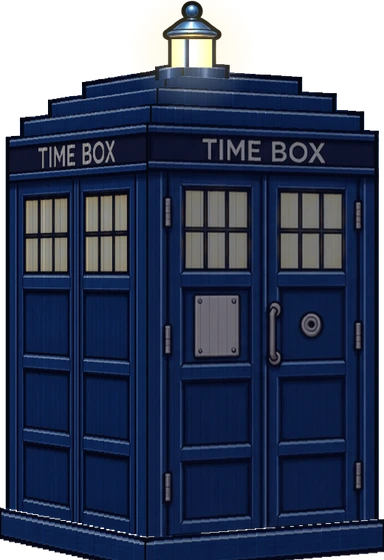
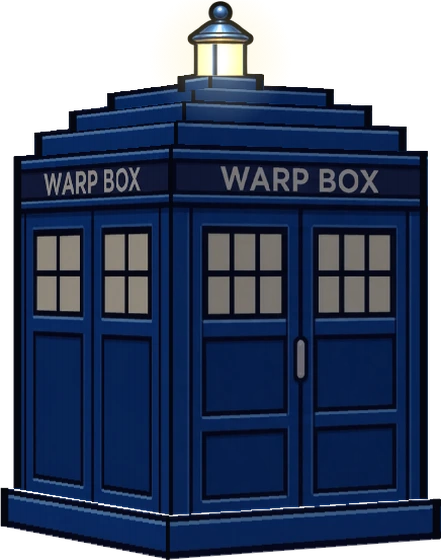
Jummah Dash: Warp Box no auto-warp (hits smash it), lasers harmless, new title card
Claude-Session: https://claude.ai/code/session_01YJ1z4udzgwtjsqdwzKAzGp

diff --git a/jummahdash/demo/game.js b/jummahdash/demo/game.js
@@ -877,6 +877,9 @@ const BOX_LIFE = 22;   // seconds the box lasts (owner: it runs out)
 const BXD = () => !!(BOXR && !veh && BOXR.t >= BOX_P * 3);   // inside the warp box (stuck on)
 const BOX_SOLID = () => BOXR && BOXR.t >= BOX_P * 3.7;
 const WARP_CD = 2.4, WO = .24, WG = .42, WI = .3;   // warp: fade out, gone (the street rushes past), fade back in further along
+function boxBreak() { const x = hero.x, y = hero.y; BOXR = null; inv = Math.max(inv, 1.8); shake = Math.max(shake, .35); flashT = .14; flashCol = '170,200,255'; SFX.boom && SFX.boom(); tone(240, .3, 'square', .06, .4, MIX && MIX.fx);
+  for (let i = 0; i < 30; i++) sparks.push({ x: x + (Math.random() - .5) * 50, y: y - Math.random() * HH * 1.5, vx: (Math.random() - .5) * 420, vy: -Math.random() * 360, l: .8 + Math.random() * .4, c: ['#1c3f8a', '#2a56b0', '#0d1b3d', '#fff3b0'][i % 4] });
+  pops.push({ x: x + 20, y: y - HH * 2, txt: 'BOX SMASHED!', col: '#9fc4ff', t: 0 }); }
 function boxWarp(auto) { if (!BOX_SOLID() || BOXR.w || (!auto && (BOXR.cd || 0) > 0) || state !== 'play' || hero.dead) return false;
   BOXR.w = { t: 0, n: 0, auto: !!auto };
   if (hero.y > FLOOR - 80) npcs.filter(p => !p.esc && !(p.fall > 0) && Math.abs(p.x - hero.x) < 70).slice(0, 2).forEach(p => { p.wp = { dx: p.x - hero.x }; });   // owner 23 Nov: people standing too close get taken along BOXR.cd = WARP_CD; RUN.warps = (RUN.warps || 0) + 1; tone(300, .35, 'sine', .06, .35, MIX && MIX.fx); tone(900, .3, 'sine', .03, .3, MIX && MIX.fx);
@@ -910,7 +913,7 @@ function die(why) {
   if (boost && !boost.out) return;
   if (veh && veh.k === 'mech' && veh.su < 1.05) return;   // can't be hit while the suit is building round him
   if (hero.dashT > 0 && !veh) { hero.threaded = 1; return; }   // a steam dash goes straight through
-  if (BOX_SOLID() && !veh) { if (why === 'laser') return; if (BOXR.w) return; if ((why === 'zap' || why === 'rocket') && boxWarp(true)) return; }
+  if (BOX_SOLID() && !veh) { if (why === 'laser') return; if (BOXR.w) return; boxBreak(); return; }   // owner 23 Nov: no automatic warping - hit a rocket or zapper and the box is smashed (he carries on with the cooker)
   if (hero.dead || inv > 0) return; if (window.__god) { window.__hits = (window.__hits || 0) + 1; window.__hitW = why; return; }
   if (veh && veh.k === 'tuktuk' && veh.nb > .4) { inv = .35; shake = .2; flashT = .08; flashCol = '255,220,120'; SFX.boom(); pops.push({ x: hero.x + 20, y: hero.y - 90, txt: 'SMASH!', col: '#ffd21f', t: 0 }); for (let i = 0; i < 18; i++) sparks.push({ x: hero.x + 30, y: hero.y - 30, vx: Math.random() * 260, vy: (Math.random() - .5) * 260, l: .5, c: ['#ffd75a', '#ffffff', '#ff9a2a'][i % 3] }); return; }
   if (veh && veh.k === 'logman' && veh.morph >= 1 && veh.swT >= 0 && veh.swT < .4 && (veh.batHP || 0) > 0 && (why === 'laser' || why === 'rocket' || why === 'zap')) return;   // mid-swing: the bat deals with it
@@ -1443,7 +1446,7 @@ function drawBoost() {
 /* owner 23 Nov, from his Jetpack Joyride 2 recording: grab the token -> white flash -> the game freezes under a big title card
    (teal energy band, the ride's picture, its name, an arrow streak; ~1.6 s) -> the band wipes off -> the ride's parts fly in
    from off screen with white streaks and lock onto him one by one -> a final white flash and off he goes. */
-let REVEAL = null; const CARD = {}; ['mech', 'carpet', 'sandals', 'kabootar', 'tuktuk', 'logman', 'box'].forEach(k => { CARD[k] = img('art/card/' + k + '.webp?v=' + (k === 'logman' ? 2 : 1)); });
+let REVEAL = null; const CARD = {}; ['mech', 'carpet', 'sandals', 'kabootar', 'tuktuk', 'logman', 'box'].forEach(k => { CARD[k] = img('art/card/' + k + '.webp?v=' + (k === 'logman' ? 2 : k === 'box' ? 3 : 1)); });
 function quickRide(k) {   // owner 23 Nov: repeat pickups skip the title card: a flash, a quick snap-together and straight back into play
   flashT = .18; flashCol = '255,255,255'; inv = Math.max(inv, 1.2); tone(880, .06, 'square', .05); setTimeout(() => tone(1320, .1, 'square', .05), 60);
   startVehicle(k, true); if (!veh) return; if (k === 'mech') veh.su = Math.max(veh.su || 0, .72); else if (k === 'logman') veh.morph = .2; else { veh.asm = .5; veh.fast = 1; } POL.fx.push({ k: 'ring', x: hero.x, y: hero.y - 30, t: 0, l: .4, col: '255,255,255' }); }

diff --git a/jummahdash/demo/sw.js b/jummahdash/demo/sw.js
@@ -1,6 +1,6 @@
 /* Jummah Dash: keeps the whole game on the phone. First visit downloads it once;
    after that it opens from the phone, and an update only downloads the files that changed. */
-const BUILD = '20261123211113';
+const BUILD = '20261123211409';
 const FILES = {
 "jd-extra.js": "cfaae1b40a",
 "hd/landmarks_hd.js": "7d60d75c5a",
@@ -10,7 +10,7 @@ const FILES = {
 "hd/box.js": "399029c3d5",
 "hd/tins.js": "aa419cd2f9",
 "hd/foodbank.png": "8f4400d5e6",
-"game.js": "27b0d3d0c5",
+"game.js": "413104777d",
 "landmarks.js": "4649570284",
 "vehicles.js": "32fdac20ce",
 "manifest.webmanifest": "f337af2b13",
@@ -174,7 +174,7 @@ const FILES = {
 "art/tin/lots.webp": "9ca790f26c",
 "art/tin/sewing.webp": "6f83d240f9",
 "art/tin/tin.webp": "551d646453",
-"art/card/box.webp": "b5e6c24513",
+"art/card/box.webp": "6b2075b7e6",
 "art/card/carpet.webp": "10915d8166",
 "art/card/kabootar.webp": "a2edd1a2ed",
 "art/card/logman.webp": "25734de29c",

diff --git a/jummahdash/demo/game.html b/jummahdash/demo/game.html
@@ -607,7 +607,7 @@ var t=setInterval(function(){var lt=document.getElementById('loadTxt');if(!q&&lt
 <script src="hd/mech.js?h=e8ac3de068"></script>
 <script src="hd/logman.js?h=3eebaa7c57"></script>
 <script src="hd/box.js?h=399029c3d5"></script>
-<script src="game.js?h=27b0d3d0c5"></script>
+<script src="game.js?h=413104777d"></script>
 <script src="hd/tins.js?h=aa419cd2f9"></script>
 <script src="jd-extra.js?h=cfaae1b40a"></script>
 <script src="/flappy/carreq.js?v=1"></script>

diff --git a/CLAUDE.md b/CLAUDE.md
@@ -158,7 +158,7 @@ Owner: Summar (SMR Graphics / SMR Digital / SMR Plates, Luton). He edits the sit
 - 23 Nov (live): Hoover Mech ride (hd/mech.js drawMech, owner's own exosuit design, no face but one red laser eye + mouth slit, no white anywhere; MCH 1.08 in game.js): Transformer-style suit-up in slow motion (MECH_LOCKS clank + sparks), stomping high-knee walk that never slides (MECH_GAIT), both arms jointed (ball shoulder, elbow piston, cuff), backpack hose plugged into the near forearm; hold = foot thrusters fly like the jetpack; heavy landings knock people over; hose = coin magnet. SHIELD button bottom-left (#bShield, hold to keep it up, battery 2.5 s, recharges 3.5 s from empty as soon as you let go): red holographic hex shield, rockets bounce off (DEFLECTED!), lasers blocked; without it lasers/rockets wreck the mech, zappers only crackle. In the mech only rockets spawn (singles/pairs/volleys aimed at the suit). Skill systems: jetpack overheat (gauge beside him, 2.8 s solid hold = OVERHEAT + 1.1 s cut-out), steam dash (DASH button bottom-left #bDash or swipe right/D key; 2.2 s recharge, passes through hazards = THREADED! +£5), near-miss boost (CLOSE! xN, coins worth xN up to x5, 3 s window, speed burst). Ride bag: every ride twice, Flappy Kabootar once (rarer), never the same twice running; first gift box at 20 s is random too. Convoy: first within the first 90 s, then every 90-150 s. Outfits redrawn in the v3 style (hero_v3.js outfit param: eid cream + gold, luton orange/navy, puffer navy quilted, moroccan striped djellaba with hood; build_v3.py renders all five sheets; deploy.py hashes each). Demo modes: ?mechdemo=1 (every box is the mech), ?ridedemo=1 (every ride except Flappy in turn, boxes every ~1000 units). Claude artifact demo: 601d658b-cde5-4fb0-b20c-aee61a7de9b7 ("Jummah Dash – power-ups demo").
 - 23 Nov later (live): Billi the Cat gadget (id 'cat', £3,000; CAT in game.js, works like Flash the dog in Jetpack Joyride, drawn in the hero's style at his scale FS): orange tabby trots along the pavement with him (IK legs, diagonal pairs, planted paws slide with the street), jumps for low coins, trips about 1 in 4 people it runs into, rides along on every power-up (tuk-tuk, carpet, Flappy pigeon, mech shoulder, uncle's Corolla) pulling coins in from close by; near ear in front of the head, far ear smaller behind. Puffer = waist-length navy jacket over the thobe; Luton outfit = full kit (orange shirt, navy shorts, navy leggings, orange boots). Yaris wheels .87 (WSZ). DASH button back to the old style and spot, 74px (63 on short screens). Shop outfit icons skip a picture that hasn't loaded (a 0-byte hero3_puffer.webp had stopped the outfits list after Classic; rebuilt). Test hook window.__spawn(key, x).
 - 23 Nov (afternoon, live 23 Nov ~15:00 after a full test pass): power-ups now work like the owner's JJ2 recording: the ride token spins like a coin with a holographic rainbow frame; grabbing it = white flash, the game freezes under a title card (startReveal/drawReveal: teal energy band with flickering jagged edges, the ride's picture from art/card/<k>.webp (owner's ChatGPT art: mech, carpet, sandals, kabootar; tuk-tuk uses its icon), POWER-UP! + name, arrow streak; 1.75 s), then the ride's parts fly in from off screen with white streaks and lock on (veh.asm, 3 pieces, clank + sparks, final white flash; the mech keeps its own suit-up and skips its old banner). Hoover Mech jumps like Big Stomper (timed from the recording): tap = crouch then blast-off (vy -1500, SFX.stompJump: filtered-noise roar + low boom), up in ~0.23 s, ~0.25 s hang, fast drop; hold in the air = thrusters hover/climb; landing = squash, dust ring, thudBig + clank, shake, people knocked over. Ammi's Tin (end-of-run biscuit tin game, hd/tins.js + art/tin/*.webp from the owner's ChatGPT sprites: open tin, lid, lid flying, contents sewing/few/lots/eidi/keys/jackpot/gift; contentsS draws them smaller and lower, clipped to the opening with only a low mound above the back rim and the inner wall shading over the back, so they sit down in the tin): tins float in runs (spinning tilt, gold ring, sparkles, shine), fly to a tin counter under the money (#tinHud, art/tin/closed.webp); each tin = one round: 3 tins (R × .82, owner 23 Nov), the jackpot tin peeks, SHUFFLE! (gold pill button with a shuffle icon, pulse + shine sweep; ▶ icon for OPEN NEXT TIN / CARRY ON via data-k), quick shuffle (5 swaps), pick one, camera moves in (every phase sped up by TSPD in tins.js, owner 23 Nov: shuffle, see the prize, see what you missed, next), money wins = ka-ching + coins pouring out + confetti, lid prises off, contents pop, the other two open. Prizes: jackpot tin £300 / £150 / head start 1000m / 2 second chances / a free jugaad; others mostly the sewing kit, sometimes £25/£50, a second chance or head start 500m. ?tindemo=1 = tins often; window.__tins(n). Shop tab GADGETS renamed JUGAAD; new jugaad HOT JALEBI (£1,800: some coin trails become jalebis worth £3; owner's jalebi art art/jalebi.webp). Rockets silver with a blue nose/fins and one blue + one white stripe. Then (same afternoon): DASH button left of the SHIELD (#bShield moved to left +116); on the carpet he stays his running size (HS); power-up tokens stay fixed to the street like JJ's: a spinning hologram tile (see-through SMR Digital blue→violet→pink face with moving rainbow bands and scan lines, polished metal rim whose thickness is the rim repeated behind it as it turns, glint running round the rim); tuk-tuk title card = owner's render art/card/tuktuk.webp; carpet token icon = owner's carpet render art/icon_carpet.webp (rideIcon); Billi is built into the rides: on a power-up he leaps onto it in an arc (CAT.jmp, .5 s), lands with a squash, then the ride draws him itself in a lying pose (CAT.lie(g, rideScale, {hang|wind}), CAT.built()): Hoover Mech = lying on the shoulder pad, paws draped over the front, tail down the back (drawMech o.cat hook after the pad); carpet = lying on the cloth riding its ripple (carpetWave()); tuk-tuk = flat on the roof, tail streaming; head start / pigeon = the same lying pose at the ride spot; only Ammi's tin floats, in a wave you chase, with a soft gold glow hugging it, a shine that sweeps over the round tin only (masked to the tin's pixels on a small canvas TINSH), and four motion lines trailing to the left that stretch and shrink on their own beats and bend along the path the tin just floated through, with little speed dashes drifting off the ends (no ring; ?tindemo tins every ~900-1400 units); Billi walks in at the start (only sits once you're down); Billi runs at a gallop (knees on the front, hocks behind on the back legs, faster with the game); DASH, SHIELD and HORN buttons all the same 74px (63 on short screens) in exactly the same spot, left calc(var(--sl) * .6 + 6px), 37px up; distance/money HUD left calc(var(--sl) * .6 + 10px); Flappy Kabootar ride only in every other ride bag (jd_fkbag) and its coins are £10 each; carpet flies in under him in one piece, sandals rise to his feet; gravity sandals = chunky brown sandals with glowing green straps and a thick neon green sole, drawn into small sheets art/hero3s_<outfit>.webp (run0-5 + glide0; heroV3.sandal, `python3 hd/build_v3.py sandals`). Demo artifact has Billi the cat equipped. Tuk-tuk HORN BLAST (owner 23 Nov): gold HORN button (#bHorn; H/D keys) while in the tuk-tuk, 1.8 s recharge ring: SFX.horn = the owner's own horn recording art/snd/horn.mp3 (his two honks at 4.70-6.12 s of his clip; the loud bit at 7.5 s is a TikTok sound, never use it, highpass + denoise, 12 ms fade in / 0.58 s fade out, loudness-normalised; synth air horn only until it loads) (nothing mixed in); brass bulb horn on the tuk-tuk's front pillar squeezes, the tuk-tuk rocks back; the shockwave is see-through sound waves that bend the picture behind them (drawHorns after the sparks: copies the canvas into WARP, then warpRing() magnifies the strip under each ring sector by sector with its own wobble, glassBand() adds a faint glassy crest; one big wave + two ripples rolling right, small waves pumping out of the horn; no drawn lines) rolls right at 1100 px/s across the screen: zappers shatter (ZAPPED +£2), flying rockets are blown back (BLOWN AWAY +£2), rockets still on their warning are cancelled when it reaches the edge (ROCKET CANCELLED! +£2), lasers shut off (LASER OFF +£2), people in its path are knocked flat (+£1 each). Tip 'HIT HORN TO BLAST HAZARDS!' the first time. Tuk-tuk double jump (owner 23 Nov): a second tap in the air (veh.dj, reset on landing) boosts it again with a thruster burst (veh.dbl), enough to reach the top of the screen (ceiling clamp CEIL + 84); hold still slows the fall. Tuk-tuk is laser-proof (tukLaser: sparks crackle over it, 'LASER-PROOF!' once per laser). Test hooks __jd.horn(), __jd.zap(x,y,len,ang). 23 Nov evening: shop tab JUGAAD renamed back to GADGETS everywhere (no 'jugaad' wording anywhere; tin prize = FREE GADGET!); the Charity Tin gadget is now COIN MAGNET (id still 'tin' so saves keep it, drawn magnet icon); Luton Central Mosque is the default masjid with no first-time picker (change it in Settings); zapper ends = the owner's silver balls with the hole the beam comes out of (art/zapball.webp cut from his sheet, zapBall()/ballCrackle()); the horn pulse makes things short out and break instead of vanishing (wrecks[] in game.js: zapper beams stutter then the balls drop, bounce and smoke; laser boxes flicker out and fall; rockets lose their flame, tumble down and pop on the road; 'SHORTED OUT +£2'); laser warning line has a dark backing, soft glow and thicker moving dashes so it shows on the busy street; horn recording played at full gain; DASH, SHIELD and HORN buttons 30% bigger (96px, 82px on short screens, bottom 22px), still all in the same spot.  Tuk-tuk redrawn (owner 23 Nov evening): glossy paint with a clear-coat band, panel seams, chrome bumper, grab rail, mudguard, plate, stitched canopy, real tyres with chrome rims that blur at speed; headlight = chrome bezel + glowing lens + soft layered cone with flicker and a light pool on the road; thrusters = metal nozzles that glow hot, layered roaring jets (white core, yellow, orange) with shock diamonds, ground glow and embers, bigger blast on the double jump, tiny blue pilot flame in the air (veh.heat). Convoy rarer: first at 2.5-5 min, then every 5-8 min. DASH is hidden (and can't fire) under the power-up title card and in Flappy Kabootar mode.
-- 23 Nov evening (live): tuk-tuk horn fixed (traffic kit's SFX.horn was overwriting it; the tuk-tuk plays SFX.tukHorn = the owner's two honks at 4.7-6.1 s of his clip); Billi back on the carpet/pigeon (code had been swallowed by a comment); zappers = chrome balls drawn in code (zapBallArt, lighting stays upright) with an "eye" (iris + white-hot pupil) facing the other ball, golden beam; tuk-tuk redrawn (glossy paint, chrome, real tyres, glowing nozzles with roaring jets, soft headlight); convoy rarer (first 2.5-5 min, then 5-8 min); POLISH block (POL in game.js): jetpack flame (P.jet), lean + landing squash (hero.sq), cooker rattle/red glow/valve spits, footstep dust, coin streak pitch + sparkles + "+N" + HUD bump + glints, rocket tracking line, chunkier rockets x1.35, laser whir + shake, near-miss slow-mo (SMT), hit-stop (HITT), soot/fizz, coins spill + death zoom, ride debris, mech cracks + joint steam, sandal flip ripple, carpet sparkles, pigeon feathers, pavement pigeons that scatter, speed lines, game-over count-up + NEW BEST + confetti, shop ka-ching + flying coins, mission star, button clicks, home tiles slide in + logo shine + hero bob, every tone pitch varies ±2%; background music removed (owner); plane redrawn (generic white/orange livery, no airline name, gear, lights, drifting exhaust) + plane roar (SFX.planeT) + train rumble/clacks/horn (SFX.trainT); cooker heat bar moved under the money (#heatBar: COOKER / TOO HOT! shaking / COOLING… with smoke puffs); results screen first with RUN AGAIN, tins + Eidi banked (jd_bankT/jd_bankE, open from results or home; banked Eidi "life" = a Second Chance item); first-ever run (no jd_played): tuk-tuk box low at ~8.5 s, then a vertical zapper + "HIT HORN TO BREAK IT!" with the HORN button pulsing; repeat ride pickups skip the title card (jd_seenRides, quickRide; kabootar keeps its own entry); set pieces after 220 m (14%): speed-camera gate with a coin line through the gap, spinning zapper ringed with coins, rocket run (fixY lanes) with coins in the middle lane; STYLE shop tab: Copper Cooker £300, Black Chrome Cooker £400 (art/cookmask.webp recolours only the cooker pixels, ckSheet), Green Steam £200, Pink Steam £250 (SHOP.ck / SHOP.st); Welcome to Luton = the real painted tarmac slope in a grass bank with perspective lettering (welcomeTex warped row by row). Lakri Man (owner's orange log character, name is a placeholder): rigged in hd/logman.js (drawLogman) from the owner's parts sheet cut into art/logman/*.webp (body, near/far upper arm, forearm, hand, thigh, shin, foot, 10 faces); joints have no outline seams (outline discs behind, fill discs over the seams); run cycle, air pose, windmill arms, faces change with what he's doing. New ride 'logman' in RIDES: Hulk-style mutation (drawLogVeh: he shakes, turns orange, stretches, the cooker drops off and bounces away (heroSplit via cookmask), burst of wood chips, Lakri Man grows out with an overshoot; SFX.mutate growl + wood creaks); tap = big leap, tap again in the air = flip leap, hold in the air = windmill arms slow the fall; zappers can't hurt wood ('WOOD DON'T CONDUCT!'), rockets and lasers splinter him; a bit taller than the hero (LMS .096). Title card art/card/logman.webp = the owner's bat-on-shoulder render (also the ride token icon); BAT button icon art/bat_icon.webp = his bat picture, tilted. Later 23 Nov: browner orange (art/logman/*.webp recoloured from art/logman_orig/, joint fills #d16c2a/#ad4f1b); jump, flip, then a double flip (veh.jn up to 3, 'TRIPLE!'); holds the owner's long bat (art/logman/n_bat.webp, hand + bat cut from his sheet, bat stretched 1.55x) in place of his near hand; BAT button (#bBat, same spot/size as Shield/Dash/Horn; B/S keys): wind-up, whip and follow-through (batAngle), the forward whip smashes zappers (SMASHED!), sends rockets back (HOME RUN!) and knocks out lasers at his height (BATTED!), short hit-stop; limits: bat snaps after 6 hits (BAT_HP), and he only lasts 24 s (LOG_LIFE): creaks and cracks for the last 5 s, then logRevert() splinters him back into the hero (not a death). Baseball (owner 23 Nov): BASE HIT! (zapper), HOME RUN! (rocket, ballpark organ 'charge!' SFX.charge, then homeRunLands(): coin shower / pigeons / car alarm / GRAND SLAM +£10), BATTED! (laser), STRIKE OUT! when he's hit; hit streak ×2..×5 on the payout (resets on a whiffed swing, 'STREAK OVER'); STYLE shop bats: Taped Bat £500 (10 hits), Aluminium Bat £800 (wider swing + TING), Golden Bat £1200 (coins on every hit, sometimes no damage) (SHOP.bat; art/logman/n_bat_tape|alu|gold.webp); Golden Lakri Man 1 in 200 (?goldlog=1 or admin start option): metallic gold parts from art/logman_gold/, glow + sparkle trail, golden bat, lasts twice as long. Admin mode (jd-extra.js START) has LAKRI MAN and GOLDEN LAKRI MAN; ride-box rotation includes him; admin unlocks the style items and bats. Death (owner 23 Nov night): no grey/soot or white shock tint; he goes limp in the fall0_ko pose with dizzy swirl eyes (hero_v3.js face 'ko', all outfit sheets rebuilt); his cooker breaks off (deadCookOff/drawDeadCook: heroSplit body drawn on him, the cooker flies up spinning, pours dark smoke (steam p.dark), bounces and smoulders, kept near him); Second Chance gives it back. Tuk-tuk assembly (owner 23 Nov night): no more picture strips; drawVehicle's tuk-tuk is split into its real parts with PT(i, fn) and TUK_PARTS (centre x/y, fly-in offset, spin): back wheel, cabin, body, canopy, windscreen, mirror, headlight, front wheel, thrusters, exhaust, horn; each flies in on its own path 0.07 apart, eases in with a small overshoot and a white trail, then clicks (own tone) with sparks and a cross glint (veh.glint). window.__aT freezes the assembly for screenshots; __jd.veh(k, true) starts a ride with the assembly. Fixes 23 Nov night: taps now jump (the jump code had only run during the mutation), jump / flip / double flip work; Lakri Man 40% bigger (LMS .1344); bat = the owner's own bat picture (light orange, knob in the fist, 330 px, ~1.4x longer; tape/alu/gold made from it, old ones in art/logman_orig/); mutation redone as one body (hunch, orange glow, three growth spurts, wood rising from the feet past a glowing seam, cooker breaks off his back and bounces away, head squashed into the log, roar); heroSplit grows the cooker mask by ~1.3 units all round (16 directions) so the cooker's dark outline leaves with it (a ghost outline used to stay on his back after it flew off), and turns the opaque cookmask's brightness into alpha (it used to count the whole hero as cooker, so the hero flew off); can't be hurt while transforming; generous bat timing (whip window .02-.36 s, bigger reach, hits during a swing go to the bat first, .2 s grace after a hit); time up or a hit = logExplode(): his body parts (window.LOGMAN_P) fly apart with a blast and the hero is underneath with his cooker. Somersault (owner 23 Nov night): real tucked front flip: st.tuck (0-1, in over the first 15%, out over the last 18%) bends thigh/shin/foot to knees-up heels-in and pulls the arms in (legA/armA in logman.js), the near leg is drawn in front of the log while tucked, the pivot moves up to the ball's centre, the spin eases in/out (smoothstep), flips last .56 s (triple .8 s); window.__fT freezes the flip progress, window.__noRot turns off the spin for checks. Warp Box (owner 23 Nov night, his own art; a spinning box only, no time travel): hd/box.js drawBox(g, x, groundY, h, angle) turns a real square box from his pictures (front face = his door side, the other three = his single side picture, roof steps/base cut from it, faces cropped inside the outline with one outline round the outside and thin corner lines, light from the upper left, slight perspective; lantern's glass redrawn with four posts sliding round so it turns too; art/box/*.webp, title card art/card/box.webp rendered from it). Power-up 'box' in RIDES (VEH_NAME BLUE BOX) but not a vehicle: startVehicle sets BOXR and he keeps flying with the cooker; it shimmers in and out round him 3 times (.4 s each) and sticks on the 4th, then spins round him. DASH button turns into WARP (blue; swipe right / D too): he and the box are sucked in (spin + shrink), the street rushes past (+1500 speed for ~.4 s) and they pop out further on ('WARPED!', 2.4 s recharge); touching a zapper or rocket warps him automatically; big lasers can't touch him; landing spot is cleared of zappers/rockets. Lasts 22 s (BOX_LIFE), flickers for the last 3 s, then 'BOX GONE!'. Renamed WARP BOX (owner): both sign pictures repainted to read WARP BOX (Poppins Medium over the blended panel), power-up name WARP BOX in VEH_NAME and admin START. Owner's simpler art (23 Nov 21:00, sheet with WARP BOX already on it): faces/roof steps/base from it (art/box/*.webp v=2, H 698, BW 415), old lantern kept (art/box/lantern.webp, posts still turn); old textures in art/box_old/; each face shaded in one pass (no strip seams). No reward just for pressing WARP (owner): no bonus, skipped coins aren't collected; coin magnet while in the box stays; pops 'WARPED!' / 'SLIPPED THROUGH!'. Passengers (owner): anyone on the pavement within 70 of him when he warps from low down (max 2) is sucked in with him (p.wp, drawn shrinking/fading with the warp), pops out with him ('BROUGHT A PASSENGER!') and walks on dizzy with stars circling (p.dizzy 2.6 s). Flying in the box (owner): no steam, no hiss, no flame/rattle and no heat build-up (BXD()), just a few soft silent motion lines under the box going up / above it coming down (drawBoxR). Tip 'TAP WARP TO SKIP AHEAD!' once per run (the DASH tip is skipped in the box). Shadows (owner 23 Nov): drawShadows() before the depth-sorted pavement list puts a soft ellipse on the pavement under everything in the air (rockets, zapper balls + beam, coins, ride tokens and tins, wreck pieces, Lakri Man's flying parts, the dead cooker, the warp box, mech, sandals on the floor side, the cat mid-jump); gshadow(x, y, w, k, always) shrinks and fades with height. Rides too (owner): mech, sandals, Lakri Man, magic carpet and uncle's Corolla get theirs from the pass (always on, sized to the ride; the old fixed ones were removed); tuk-tuk and Flappy pigeon keep their own height-scaled shadows. While in it the spawner only throws rocket volleys with coins, big laser sets and plain coin waves (owner: no zapper walls in the Warp Box); mix in the box: rocket volleys 40%, big lasers 18%, two or three single zappers 300 apart alternating high/low so he can fly round them 20%, coin waves 22%. After every warp he's safe for ~1.9 s (inv) because he can't see where he'll land. Preview page box_preview.html in the work folder. Handover doc: Jummah-Dash-handover.docx (sent in chat). Test hook window.__lm(key, x) puts a landmark on the street.
+- 23 Nov evening (live): tuk-tuk horn fixed (traffic kit's SFX.horn was overwriting it; the tuk-tuk plays SFX.tukHorn = the owner's two honks at 4.7-6.1 s of his clip); Billi back on the carpet/pigeon (code had been swallowed by a comment); zappers = chrome balls drawn in code (zapBallArt, lighting stays upright) with an "eye" (iris + white-hot pupil) facing the other ball, golden beam; tuk-tuk redrawn (glossy paint, chrome, real tyres, glowing nozzles with roaring jets, soft headlight); convoy rarer (first 2.5-5 min, then 5-8 min); POLISH block (POL in game.js): jetpack flame (P.jet), lean + landing squash (hero.sq), cooker rattle/red glow/valve spits, footstep dust, coin streak pitch + sparkles + "+N" + HUD bump + glints, rocket tracking line, chunkier rockets x1.35, laser whir + shake, near-miss slow-mo (SMT), hit-stop (HITT), soot/fizz, coins spill + death zoom, ride debris, mech cracks + joint steam, sandal flip ripple, carpet sparkles, pigeon feathers, pavement pigeons that scatter, speed lines, game-over count-up + NEW BEST + confetti, shop ka-ching + flying coins, mission star, button clicks, home tiles slide in + logo shine + hero bob, every tone pitch varies ±2%; background music removed (owner); plane redrawn (generic white/orange livery, no airline name, gear, lights, drifting exhaust) + plane roar (SFX.planeT) + train rumble/clacks/horn (SFX.trainT); cooker heat bar moved under the money (#heatBar: COOKER / TOO HOT! shaking / COOLING… with smoke puffs); results screen first with RUN AGAIN, tins + Eidi banked (jd_bankT/jd_bankE, open from results or home; banked Eidi "life" = a Second Chance item); first-ever run (no jd_played): tuk-tuk box low at ~8.5 s, then a vertical zapper + "HIT HORN TO BREAK IT!" with the HORN button pulsing; repeat ride pickups skip the title card (jd_seenRides, quickRide; kabootar keeps its own entry); set pieces after 220 m (14%): speed-camera gate with a coin line through the gap, spinning zapper ringed with coins, rocket run (fixY lanes) with coins in the middle lane; STYLE shop tab: Copper Cooker £300, Black Chrome Cooker £400 (art/cookmask.webp recolours only the cooker pixels, ckSheet), Green Steam £200, Pink Steam £250 (SHOP.ck / SHOP.st); Welcome to Luton = the real painted tarmac slope in a grass bank with perspective lettering (welcomeTex warped row by row). Lakri Man (owner's orange log character, name is a placeholder): rigged in hd/logman.js (drawLogman) from the owner's parts sheet cut into art/logman/*.webp (body, near/far upper arm, forearm, hand, thigh, shin, foot, 10 faces); joints have no outline seams (outline discs behind, fill discs over the seams); run cycle, air pose, windmill arms, faces change with what he's doing. New ride 'logman' in RIDES: Hulk-style mutation (drawLogVeh: he shakes, turns orange, stretches, the cooker drops off and bounces away (heroSplit via cookmask), burst of wood chips, Lakri Man grows out with an overshoot; SFX.mutate growl + wood creaks); tap = big leap, tap again in the air = flip leap, hold in the air = windmill arms slow the fall; zappers can't hurt wood ('WOOD DON'T CONDUCT!'), rockets and lasers splinter him; a bit taller than the hero (LMS .096). Title card art/card/logman.webp = the owner's bat-on-shoulder render (also the ride token icon); BAT button icon art/bat_icon.webp = his bat picture, tilted. Later 23 Nov: browner orange (art/logman/*.webp recoloured from art/logman_orig/, joint fills #d16c2a/#ad4f1b); jump, flip, then a double flip (veh.jn up to 3, 'TRIPLE!'); holds the owner's long bat (art/logman/n_bat.webp, hand + bat cut from his sheet, bat stretched 1.55x) in place of his near hand; BAT button (#bBat, same spot/size as Shield/Dash/Horn; B/S keys): wind-up, whip and follow-through (batAngle), the forward whip smashes zappers (SMASHED!), sends rockets back (HOME RUN!) and knocks out lasers at his height (BATTED!), short hit-stop; limits: bat snaps after 6 hits (BAT_HP), and he only lasts 24 s (LOG_LIFE): creaks and cracks for the last 5 s, then logRevert() splinters him back into the hero (not a death). Baseball (owner 23 Nov): BASE HIT! (zapper), HOME RUN! (rocket, ballpark organ 'charge!' SFX.charge, then homeRunLands(): coin shower / pigeons / car alarm / GRAND SLAM +£10), BATTED! (laser), STRIKE OUT! when he's hit; hit streak ×2..×5 on the payout (resets on a whiffed swing, 'STREAK OVER'); STYLE shop bats: Taped Bat £500 (10 hits), Aluminium Bat £800 (wider swing + TING), Golden Bat £1200 (coins on every hit, sometimes no damage) (SHOP.bat; art/logman/n_bat_tape|alu|gold.webp); Golden Lakri Man 1 in 200 (?goldlog=1 or admin start option): metallic gold parts from art/logman_gold/, glow + sparkle trail, golden bat, lasts twice as long. Admin mode (jd-extra.js START) has LAKRI MAN and GOLDEN LAKRI MAN; ride-box rotation includes him; admin unlocks the style items and bats. Death (owner 23 Nov night): no grey/soot or white shock tint; he goes limp in the fall0_ko pose with dizzy swirl eyes (hero_v3.js face 'ko', all outfit sheets rebuilt); his cooker breaks off (deadCookOff/drawDeadCook: heroSplit body drawn on him, the cooker flies up spinning, pours dark smoke (steam p.dark), bounces and smoulders, kept near him); Second Chance gives it back. Tuk-tuk assembly (owner 23 Nov night): no more picture strips; drawVehicle's tuk-tuk is split into its real parts with PT(i, fn) and TUK_PARTS (centre x/y, fly-in offset, spin): back wheel, cabin, body, canopy, windscreen, mirror, headlight, front wheel, thrusters, exhaust, horn; each flies in on its own path 0.07 apart, eases in with a small overshoot and a white trail, then clicks (own tone) with sparks and a cross glint (veh.glint). window.__aT freezes the assembly for screenshots; __jd.veh(k, true) starts a ride with the assembly. Fixes 23 Nov night: taps now jump (the jump code had only run during the mutation), jump / flip / double flip work; Lakri Man 40% bigger (LMS .1344); bat = the owner's own bat picture (light orange, knob in the fist, 330 px, ~1.4x longer; tape/alu/gold made from it, old ones in art/logman_orig/); mutation redone as one body (hunch, orange glow, three growth spurts, wood rising from the feet past a glowing seam, cooker breaks off his back and bounces away, head squashed into the log, roar); heroSplit grows the cooker mask by ~1.3 units all round (16 directions) so the cooker's dark outline leaves with it (a ghost outline used to stay on his back after it flew off), and turns the opaque cookmask's brightness into alpha (it used to count the whole hero as cooker, so the hero flew off); can't be hurt while transforming; generous bat timing (whip window .02-.36 s, bigger reach, hits during a swing go to the bat first, .2 s grace after a hit); time up or a hit = logExplode(): his body parts (window.LOGMAN_P) fly apart with a blast and the hero is underneath with his cooker. Somersault (owner 23 Nov night): real tucked front flip: st.tuck (0-1, in over the first 15%, out over the last 18%) bends thigh/shin/foot to knees-up heels-in and pulls the arms in (legA/armA in logman.js), the near leg is drawn in front of the log while tucked, the pivot moves up to the ball's centre, the spin eases in/out (smoothstep), flips last .56 s (triple .8 s); window.__fT freezes the flip progress, window.__noRot turns off the spin for checks. Warp Box (owner 23 Nov night, his own art; a spinning box only, no time travel): hd/box.js drawBox(g, x, groundY, h, angle) turns a real square box from his pictures (front face = his door side, the other three = his single side picture, roof steps/base cut from it, faces cropped inside the outline with one outline round the outside and thin corner lines, light from the upper left, slight perspective; lantern's glass redrawn with four posts sliding round so it turns too; art/box/*.webp, title card art/card/box.webp rendered from it). Power-up 'box' in RIDES (VEH_NAME BLUE BOX) but not a vehicle: startVehicle sets BOXR and he keeps flying with the cooker; it shimmers in and out round him 3 times (.4 s each) and sticks on the 4th, then spins round him. DASH button turns into WARP (blue; swipe right / D too): he and the box are sucked in (spin + shrink), the street rushes past (+1500 speed for ~.4 s) and they pop out further on ('WARPED!', 2.4 s recharge); no automatic warping (owner 23 Nov): the speed-camera lasers can't touch him, but a rocket or zapper smashes the box (boxBreak: blue splinters, 'BOX SMASHED!', 1.8 s safe, he carries on with the cooker), so he has to dodge or press WARP; landing spot after a warp is cleared of zappers/rockets. Title card art/card/box.webp re-rendered from the WARP BOX art (?v=3). Lasts 22 s (BOX_LIFE), flickers for the last 3 s, then 'BOX GONE!'. Renamed WARP BOX (owner): both sign pictures repainted to read WARP BOX (Poppins Medium over the blended panel), power-up name WARP BOX in VEH_NAME and admin START. Owner's simpler art (23 Nov 21:00, sheet with WARP BOX already on it): faces/roof steps/base from it (art/box/*.webp v=2, H 698, BW 415), old lantern kept (art/box/lantern.webp, posts still turn); old textures in art/box_old/; each face shaded in one pass (no strip seams). No reward just for pressing WARP (owner): no bonus, skipped coins aren't collected; coin magnet while in the box stays; pops 'WARPED!' / 'SLIPPED THROUGH!'. Passengers (owner): anyone on the pavement within 70 of him when he warps from low down (max 2) is sucked in with him (p.wp, drawn shrinking/fading with the warp), pops out with him ('BROUGHT A PASSENGER!') and walks on dizzy with stars circling (p.dizzy 2.6 s). Flying in the box (owner): no steam, no hiss, no flame/rattle and no heat build-up (BXD()), just a few soft silent motion lines under the box going up / above it coming down (drawBoxR). Tip 'TAP WARP TO SKIP AHEAD!' once per run (the DASH tip is skipped in the box). Shadows (owner 23 Nov): drawShadows() before the depth-sorted pavement list puts a soft ellipse on the pavement under everything in the air (rockets, zapper balls + beam, coins, ride tokens and tins, wreck pieces, Lakri Man's flying parts, the dead cooker, the warp box, mech, sandals on the floor side, the cat mid-jump); gshadow(x, y, w, k, always) shrinks and fades with height. Rides too (owner): mech, sandals, Lakri Man, magic carpet and uncle's Corolla get theirs from the pass (always on, sized to the ride; the old fixed ones were removed); tuk-tuk and Flappy pigeon keep their own height-scaled shadows. While in it the spawner only throws rocket volleys with coins, big laser sets and plain coin waves (owner: no zapper walls in the Warp Box); mix in the box: rocket volleys 40%, big lasers 18%, two or three single zappers 300 apart alternating high/low so he can fly round them 20%, coin waves 22%. After every warp he's safe for ~1.9 s (inv) because he can't see where he'll land. Preview page box_preview.html in the work folder. Handover doc: Jummah-Dash-handover.docx (sent in chat). Test hook window.__lm(key, x) puts a landmark on the street.
 - Public link (owner 22 Nov): smrgraphics.co.uk/jummahdash (also /jummah-dash) → /jummahdash/demo/ (root .htaccess rule, plus jummahdash/index.php + jummahdash/.htaccess DirectoryIndex as a fallback for /jummahdash/).
 - Admin mode (owner, 23 Nov, live): in jd-extra.js (same rule: keep it when deploying from the work folder; deploy.py restamps its ?h= and sw.js entry). Settings → ADMIN MODE → on-screen keypad; code 1279 (JD_ADMIN_CODE in jummahdash/api.php, a code the owner can give to testers) or the owner's SMR Admin PIN (that phone is then left out of the stats); checked by api.php?a=admin_pin with the SMR Admin login limits. Unlocks on that phone (localStorage jd_admin): every outfit and gadget, 3 slots, 99 head starts + second chances, bank £999,999 (game.js keeps bank private, so it's written to jd_bank and the page reloads; refills itself when under £500k), pink ADMIN button under the top-right buttons on the home screen, EXIT button during a run (reloads to the home screen). Panel: Start every run with (nothing / tuk-tuk / magic carpet / Flappy Kabootar / gravity sandals / Hoover Mech / head start 500 / 1000, via __jd.veh / __jd.boost when the run starts), Extras (can't die = window.__god, ride box every 10 s via __jd.gift, coin magnet = charity tin on), wear any outfit, gadgets on/off, Open shop, Top up, Turn admin off (double tap; restores the progress saved before admin mode, jd_admin_snap). Owner rule: every new ride, power-up, outfit or gadget added to the game goes into START / OUTFITS / GADGETS in jd-extra.js too.
 - Stats + Recommend a place (added 22 Nov from the Kaya/admin chat, NOT from the Jummah Dash work folder): jummahdash/demo/jd-extra.js, loaded by one line `<script src="jd-extra.js?h=…">` after game.js in game.html. **When deploying from the work folder, copy jd-extra.js into it and keep that script line in game.html** (or deploy.py will drop them). It only hooks in from outside (DOM + window.__jd): random device id jd_vid (localStorage + cookie), source from ?s= / in-app browser / home screen / referrer, events to /jummahdash/api.php?a=ev (visit, play when __jd.state turns 'intro', over = #over shown with val = metres from #oD and extra = coins from #oC, share/hs_open/smr/shop/outfit from taps on #bShare/#bInst/#smrOpen/#bShop/#bOutfit, install, rec); adds a RECOMMEND A PLACE tile (map + pin icon) at the bottom of the home menu column (tiles share the column height, so the others shrink a little) opening #recBox (game-style sheet: place name, where, anything else, SEND/CLOSE, thank-you card); hidden when SMR Admin → Games → Jummah Dash → Settings turns it off (api cfg show_recommend). Server: jummahdash/api.php (outside demo/ so deploys never touch it; tables jd_events, jd_recs, jd_meta, jd_owner; rec = 6/hour per visitor + push "Jummah Dash: new place" → /demo-admin/#jummah) and jummahdash/admin.php (Stats / Inbox / Settings like Flappy; best runs table; tag tip for ?s=).
